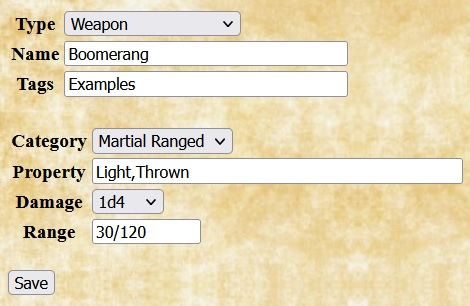
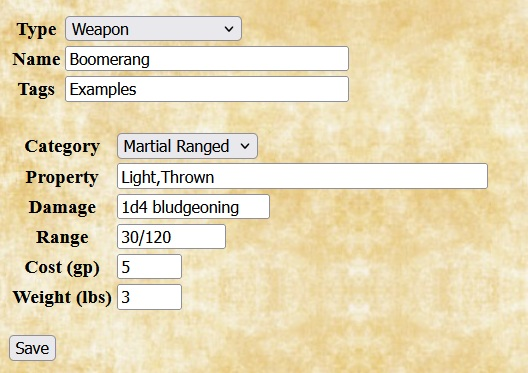
Add cost, weight, and damage type to weapon specs and list the 2h damage for versatile weapons. Fixes #49.

diff --git a/plugins/SRD5E.js b/plugins/SRD5E.js
@@ -70,7 +70,7 @@ function SRD5E() {
 
 }
 
-SRD5E.VERSION = '2.4.2.0';
+SRD5E.VERSION = '2.4.2.1';
 
 /* List of choices that can be expanded by house rules. */
 // Note: Left Goody out of this list for now because inclusion would require
@@ -3371,70 +3371,110 @@ SRD5E.TOOLS = {
 };
 SRD5E.WEAPONS = {
 
-  'Club':'Category="Simple Melee" Property=Light Damage=1d4',
+  'Club':
+    'Category="Simple Melee" Property=Light Damage="1d4 B" Cost=0.1 Weight=2',
   'Dagger':
-    'Category="Simple Melee" Property=Light,Finesse,Thrown Damage=1d4 ' +
-    'Range=20/60',
-  'Greatclub':'Category="Simple Melee" Property=Two-Handed Damage=1d8',
+    'Category="Simple Melee" Property=Light,Finesse,Thrown Damage="1d4 P" ' +
+    'Range=20/60 Cost=2 Weight=1',
+  'Greatclub':
+    'Category="Simple Melee" Property=Two-Handed Damage="1d8 B" Cost=0.2 ' +
+    'Weight=10',
   'Handaxe':
-    'Category="Simple Melee" Property=Light,Thrown Damage=1d6 Range=20/60',
+    'Category="Simple Melee" Property=Light,Thrown Damage="1d6 S" ' +
+    'Range=20/60 Cost=5 Weight=2',
   'Javelin':
-    'Category="Simple Melee" Property=Light,Thrown Damage=1d6 Range=30/120',
+    'Category="Simple Melee" Property=Thrown Damage="1d6 P" Range=30/120 ' +
+    'Cost=0.5 Weight=2',
   'Light Hammer':
-    'Category="Simple Melee" Property=Light,Thrown Damage=1d4 Range=20/60',
-  'Mace':'Category="Simple Melee" Damage=1d6',
-  'Quarterstaff':'Category="Simple Melee" Property=Versatile Damage=1d6',
-  'Sickle':'Category="Simple Melee" Property=Light Damage=1d4',
-  'Spear':'Category="Simple Melee" Property=Versatile Damage=1d6 Range=20/60',
+    'Category="Simple Melee" Property=Light,Thrown Damage="1d4 B" ' +
+    'Range=20/60 Cost=2 Weight=2',
+  'Mace':'Category="Simple Melee" Damage="1d6 B" Cost=5 Weight=4',
+  'Quarterstaff':
+    'Category="Simple Melee" Property="Versatile (1d8)" Damage="1d6 B" ' +
+    'Cost=0.2 Weight=4',
+  'Sickle':
+    'Category="Simple Melee" Property=Light Damage="1d4 S" Cost=1 Weight=2',
+  'Spear':
+    'Category="Simple Melee" Property=Thrown,"Versatile (1d8)" ' +
+    'Damage="1d6 P" Range=20/60 Cost=1 Weight=3',
   // errata removes Unarmed Strike
 
   'Light Crossbow':
     'Category="Simple Ranged" Property=Ammunition,Loading,Two-Handed ' +
-    'Damage=1d8 Range=80/320',
+    'Damage="1d8 P" Range=80/320 Cost=25 Weight=5',
   'Dart':
-    'Category="Simple Ranged" Property=Finesse,Thrown Damage=1d4 Range=20/60',
+    'Category="Simple Ranged" Property=Finesse,Thrown Damage="1d4 P" ' +
+    'Range=20/60 Cost=0.05 Weight=0.25',
   'Shortbow':
-    'Category="Simple Ranged" Property=Ammunition,Two-Handed Damage=1d6 ' +
-    'Range=80/320',
+    'Category="Simple Ranged" Property=Ammunition,Two-Handed Damage="1d6 P" ' +
+    'Range=80/320 Cost=25 Weight=2',
   'Sling':
-    'Category="Simple Ranged" Property=Ammunition Damage=1d4 Range=30/120',
+    'Category="Simple Ranged" Property=Ammunition Damage="1d4 B" ' +
+    'Range=30/120 Cost=0.1 Weight=0',
 
-  'Battleaxe':'Category="Martial Melee" Property=Versatile Damage=1d8',
-  'Flail':'Category="Martial Melee" Damage=1d8',
+  'Battleaxe':
+    'Category="Martial Melee" Property="Versatile (1d10)" Damage="1d8 S" ' +
+    'Cost=10 Weight=4',
+  'Flail':'Category="Martial Melee" Damage="1d8 B" Cost=10 Weight=2',
   'Glaive':
-    'Category="Martial Melee" Property=Heavy,Reach,Two-Handed Damage=1d10',
-  'Greataxe':'Category="Martial Melee" Property=Heavy,Two-Handed Damage=1d12',
-  'Greatsword':'Category="Martial Melee" Property=Heavy,Two-Handed Damage=2d6',
+    'Category="Martial Melee" Property=Heavy,Reach,Two-Handed ' +
+    'Damage="1d10 S" Cost=20 Weight=6',
+  'Greataxe':
+    'Category="Martial Melee" Property=Heavy,Two-Handed Damage="1d12 S" ' +
+    'Cost=30 Weight=7',
+  'Greatsword':
+    'Category="Martial Melee" Property=Heavy,Two-Handed Damage="2d6 S" ' +
+    'Cost=50 Weight=6',
   'Halberd':
-    'Category="Martial Melee" Property=Heavy,Reach,Two-Handed Damage=1d10',
-  'Lance':'Category="Martial Melee" Property=Reach,Special Damage=1d12',
-  'Longsword':'Category="Martial Melee" Property=Versatile Damage=1d8',
-  'Maul':'Category="Martial Melee" Property=Heavy,Two-Handed Damage=2d6',
-  'Morningstar':'Category="Martial Melee" Damage=1d8',
-  'Pike':'Category="Martial Melee" Property=Heavy,Reach,Two-Handed Damage=1d10',
-  'Rapier':'Category="Martial Melee" Property=Finesse Damage=1d8',
-  'Scimitar':'Category="Martial Melee" Property=Finesse,Light Damage=1d6',
-  'Shortsword':'Category="Martial Melee" Property=Finesse,Light Damage=1d6',
+    'Category="Martial Melee" Property=Heavy,Reach,Two-Handed ' +
+    'Damage="1d10 S" Cost=20 Weight=6',
+  'Lance':
+    'Category="Martial Melee" Property=Reach,Special Damage="1d12 P" Cost=10 ' +
+    'Weight=6',
+  'Longsword':
+    'Category="Martial Melee" Property="Versatile (1d10)" Damage="1d8 S" ' +
+    'Cost=15 Weight=3',
+  'Maul':
+    'Category="Martial Melee" Property=Heavy,Two-Handed Damage="2d6 B" ' +
+    'Cost=10 Weight=10',
+  'Morningstar':'Category="Martial Melee" Damage="1d8 P" Cost=15 Weight=4',
+  'Pike':
+    'Category="Martial Melee" Property=Heavy,Reach,Two-Handed ' +
+    'Damage="1d10 P" Cost=5 Weight=18',
+  'Rapier':
+    'Category="Martial Melee" Property=Finesse Damage="1d8 P" Cost=25 Weight=2',
+  'Scimitar':
+    'Category="Martial Melee" Property=Finesse,Light Damage="1d6 S" Cost=25 ' +
+    'Weight=3',
+  'Shortsword':
+    'Category="Martial Melee" Property=Finesse,Light Damage="1d6 P" Cost=0 ' +
+    'Weight=10',
   'Trident':
-    'Category="Martial Melee" Property=Thrown,Versatile Damage=1d6 Range=20/60',
-  'War Pick':'Category="Martial Melee" Damage=1d8',
-  'Warhammer':'Category="Martial Melee" Property=Versatile Damage=1d8',
-  'Whip':'Category="Martial Melee" Property=Finesse,Reach Damage=1d4',
+    'Category="Martial Melee" Property=Thrown,"Versatile (1d8)" ' +
+    'Damage="1d6 P" Range=20/60 Cost=5 Weight=5',
+  'War Pick':'Category="Martial Melee" Damage="1d8 P" Cost=5 Weight=2',
+  'Warhammer':
+    'Category="Martial Melee" Property="Versatile (1d10)" Damage="1d8 B" ' +
+    'Cost=15 Weight=2',
+  'Whip':
+    'Category="Martial Melee" Property=Finesse,Reach Damage="1d4 S" Cost=2 ' +
+    'Weight=3',
 
   'Blowgun':
-    'Category="Martial Ranged" Property=Ammunition,Loading Damage=1 ' +
-    'Range=25/100',
+    'Category="Martial Ranged" Property=Ammunition,Loading Damage="1 P" ' +
+    'Range=25/100 Cost=10 Weight=1',
   'Hand Crossbow':
-    'Category="Martial Ranged" Property=Ammunition,Light,Loading Damage=1d6 ' +
-    'Range=30/120',
+    'Category="Martial Ranged" Property=Ammunition,Light,Loading ' +
+    'Damage="1d6 P" Range=30/120 Cost=75 Weight=3',
   'Heavy Crossbow':
     'Category="Martial Ranged" Property=Ammunition,Heavy,Loading,Two-Handed ' +
-    'Damage=1d10 Range=100/400',
+    'Damage="1d10 P" Range=100/400 Cost=50 Weight=18',
   'Longbow':
     'Category="Martial Ranged" Property=Ammunition,Heavy,Two-Handed ' +
-    'Damage=1d8 Range=150/600',
+    'Damage="1d8 P" Range=150/600 Cost=50 Weight=2',
   'Net':
-    'Category="Martial Ranged" Property=Special,Thrown Damage=None Range=5/15'
+    'Category="Martial Ranged" Property=Special,Thrown Damage="None" ' +
+    'Range=5/15 Cost=1 Weight=3'
 
 };
 SRD5E.DEITIES = {
@@ -3557,7 +3597,7 @@ SRD5E.combatRules = function(rules, armors, shields, weapons) {
     (armors, ['AC', 'Bulky', 'Dex', 'Str', 'Weight']);
   QuilvynUtils.checkAttrTable(shields, ['AC']);
   QuilvynUtils.checkAttrTable
-    (weapons, ['Category', 'Damage', 'Property', 'Range']);
+    (weapons, ['Category', 'Damage', 'Property', 'Range', 'Cost', 'Weight']);
 
   for(let armor in armors) {
     rules.choiceRules(rules, 'Armor', armor, armors[armor]);
@@ -3640,7 +3680,7 @@ SRD5E.combatRules = function(rules, armors, shields, weapons) {
     'level', '^', null
   );
   rules.defineRule('initiative', 'dexterityModifier', '=', null);
-  SRD5E.weaponRules(rules, 'Unarmed', 'Unarmed', [], '1', null);
+  SRD5E.weaponRules(rules, 'Unarmed', 'Unarmed', [], '1 B', null, 0, 0);
   rules.defineRule('weapons.Unarmed', '', '=', '1');
 
   for(let ability in SRD5E.ABILITIES) {
@@ -3944,7 +3984,9 @@ SRD5E.choiceRules = function(rules, type, name, attrs) {
       QuilvynUtils.getAttrValue(attrs, 'Category'),
       QuilvynUtils.getAttrValueArray(attrs, 'Property'),
       QuilvynUtils.getAttrValue(attrs, 'Damage'),
-      QuilvynUtils.getAttrValue(attrs, 'Range')
+      QuilvynUtils.getAttrValue(attrs, 'Range'),
+      QuilvynUtils.getAttrValue(attrs, 'Cost'),
+      QuilvynUtils.getAttrValue(attrs, 'Weight')
     );
   else {
     console.log('Unknown choice type "' + type + '"');
@@ -5505,7 +5547,9 @@ SRD5E.toolRules = function(rules, name, type) {
  * specified, the weapon can be used as a ranged weapon with a range increment
  * of #range# feet.
  */
-SRD5E.weaponRules = function(rules, name, category, properties, damage, range) {
+SRD5E.weaponRules = function(
+  rules, name, category, properties, damage, range, cost, weight
+) {
 
   if(!name) {
     console.log('Bad name for weapon  "' + name + '"');
@@ -5520,7 +5564,7 @@ SRD5E.weaponRules = function(rules, name, category, properties, damage, range) {
     console.log('Bad properties list "' + properties + '" for weapon ' + name);
     return;
   }
-  let matchInfo = (damage + '').match(/^(((\d*d)?\d+)([\-+]\d+)?)$/);
+  let matchInfo = (damage + '').match(/^((\d*d)?\d+)([\-+]\d+)?(\s(B|P|S|bludgeoning|piercing|slashing))?$/);
   if(!matchInfo && damage != 'None') {
     console.log('Bad damage "' + damage + '" for weapon ' + name);
     return;
@@ -5528,17 +5572,43 @@ SRD5E.weaponRules = function(rules, name, category, properties, damage, range) {
   if(range && !(range + '').match(/^\d+\/\d+$/)) {
     console.log('Bad range "' + range + '" for weapon ' + name);
   }
+  if(cost == null) // backward compatibility
+    cost = 0;
+  if(typeof cost == 'string' && cost.match(/^0\.\d+$/))
+    cost = +cost;
+  if(typeof cost != 'number') {
+    console.log('Bad cost "' + cost + '" for weapon ' + name);
+    return;
+  }
+  if(weight == null) // backward compatibility
+    weight = 0;
+  if(typeof weight == 'string' && weight.match(/^0\.\d+$/))
+    weight = +weight;
+  if(typeof weight != 'number') {
+    console.log('Bad weight "' + weight + '" for weapon ' + name);
+    return;
+  }
 
+  let damageType =
+    matchInfo && matchInfo[5] ? ' ' + matchInfo[5].charAt(0).toUpperCase() : '';
   let is2h = properties.includes('Two-Handed');
   let isFinesse = properties.includes('Finesse');
   let isRanged = category.match(/ranged/i);
   let isSimple = category.match(/simple/i);
   let isMonk = category == 'Unarmed' || name == 'Shortsword' || 
                (isSimple && !is2h && !properties.includes('Heavy'));
+  let versatileDamage =
+    properties.filter(x => x.match(/^Versatile\s\(\d+d\d+\)$/));
+  if(versatileDamage.length > 0)
+    versatileDamage =
+      ' [2h ' + versatileDamage[0].match(/\d+d\d+/)[0].replace(/^1d/, 'd') + ']';
+  else
+    versatileDamage = '';
 
   damage = matchInfo ? matchInfo[1] : damage;
   let weaponName = 'weapons.' + name;
-  let format = '%V (%1 %2%3' + (range ? " R%4" : '') + ')';
+  let format =
+    '%V (%1 %2%3' + damageType + versatileDamage + (range ? ' R%4' : '') + ')';
 
   if(damage.startsWith('d'))
     damage = '1' + damage;
@@ -5577,11 +5647,14 @@ SRD5E.weaponRules = function(rules, name, category, properties, damage, range) {
   );
   rules.defineRule('damageBonus.' + name,
     weaponName, '=', '0',
-    isFinesse ? 'betterDamageAdjustment' :
-     isRanged ? 'combatNotes.dexterityDamageAdjustment' :
-                'combatNotes.strengthDamageAdjustment', '+', null,
     'weaponDamageAdjustment.' + name, '+', null
   );
+  if(damage != 'None')
+    rules.defineRule('damageBonus.' + name,
+      isFinesse ? 'betterDamageAdjustment' :
+       isRanged ? 'combatNotes.dexterityDamageAdjustment' :
+                  'combatNotes.strengthDamageAdjustment', '+', null
+    );
   if(isMonk) {
     rules.defineRule('attackBonus.' + name, 'monkMeleeAttackBonus', '+', null);
     rules.defineRule('damageBonus.' + name, 'monkMeleeDamageBonus', '+', null);
@@ -6017,8 +6090,10 @@ SRD5E.choiceEditorElements = function(rules, type) {
     result.push(
       ['Category', 'Category', 'select-one', ['Unarmed', 'Simple Melee', 'Simple Ranged', 'Martial Melee', 'Martial Ranged']],
       ['Property', 'Property', 'text', [40]],
-      ['Damage', 'Damage', 'select-one', QuilvynUtils.getKeys(SRD5E.VERSATILE_WEAPON_DAMAGE)],
-      ['Range', 'Range', 'text', [10]]
+      ['Damage', 'Damage', 'text', [15]],
+      ['Range', 'Range', 'text', [10]],
+      ['Cost', 'Cost (gp)', 'text', [5]],
+      ['Weight', 'Weight (lbs)', 'text', [5]]
     );
   }
   return result;

diff --git a/plugins/homebrew-srd5e.html b/plugins/homebrew-srd5e.html
@@ -354,10 +354,14 @@ whistle.
 <p>
 When adding a homebrew weapon, Quilvyn displays fields that allow you to enter
 the weapon's category (Unarmed, Simple Melee or Ranged, or Martial Melee or
-Ranged), properties, and (for ranged weapons) standard and long range values.
+Ranged), properties, damage, cost, weight, and (for ranged weapons) standard
+and long range values. In the cost and weight fields, enter a decimal for
+weapons that cost less than a gold piece or weigh less than a pound, e.g.,
+enter "0.2" and "0.5" for a homebrew weapon that costs 2 silver pieces and
+weighs half a pound.
 </p><p>
 The example shows the entry for a boomerang, a martial ranged weapon with a
-30'/120' range that inflicts 1d4 damage.
+30'/120' range that inflicts 1d4 bludgeoning damage.
 </p>
 </td></tr>
 <tr><td colspan="2"><hr/></td></tr>
